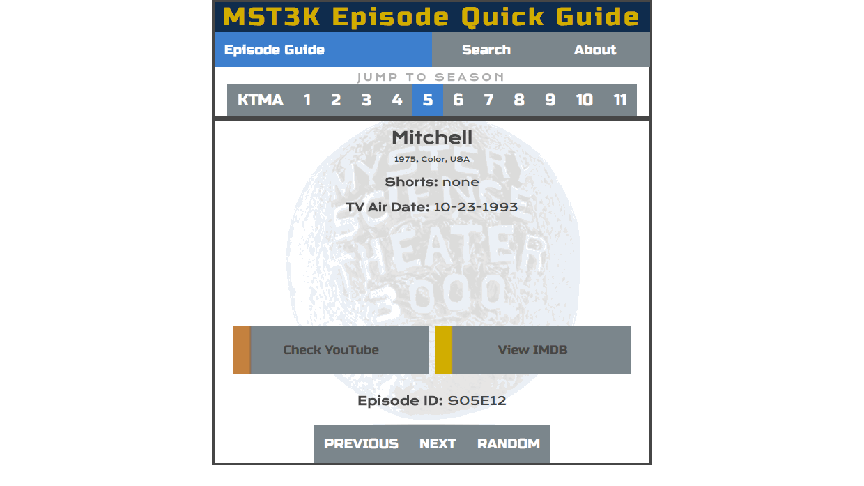
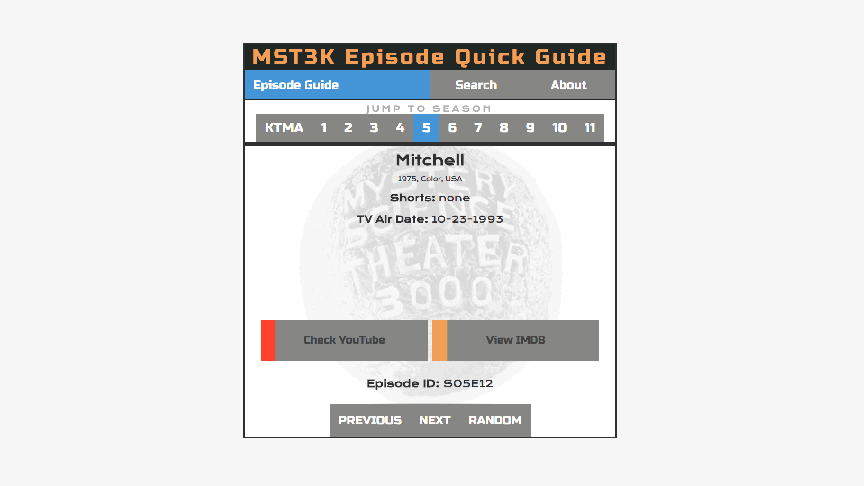
add new projects, add devicons, minor styling fixes

Changed region(s): [[0.2188, 0.0, 0.7812, 0.9568], [0.625, 0.4012, 0.6562, 0.4321]]

diff --git a/index.html b/index.html
@@ -14,12 +14,13 @@
   <meta property="og:title" content="Ed Plato | Web Developer Portfolio"/>
 
   <meta property="og:image" content="assets/portfolioThumbnail.png"/>
-  <meta property="og:description" content="HTML5, CSS3, Javascript, React, jQuery, Node.js, and more."/>
+  <meta property="og:description" content="Javascript, React, HTML5, CSS3, Node.JS, MongoDB, and more."/>
   <meta property="og:url" content="https://edplato.github.io/"/>
 
-  <link rel="shortcut icon" href="/favicon.ico">
+  <link rel="shortcut icon" href="./favicon.ico">
   <link href="vendor/font-awesome/css/font-awesome.min.css" rel="stylesheet">
   <link href="https://fonts.googleapis.com/css?family=Lato:400,700|Montserrat:200,300,400" rel="stylesheet">
+  <link rel="stylesheet" href="https://cdn.rawgit.com/konpa/devicon/df6431e323547add1b4cf45992913f15286456d3/devicon.min.css">
   <link href="css/bootstrap.min.css" rel="stylesheet">
   <link href="css/animate.css" rel="stylesheet">
   <link href="css/new-age.min.css" rel="stylesheet">
@@ -65,7 +66,7 @@
           <h2>let's build something <span id="line">|</span></h2>
           <div class="social-media-icons">
             <a href="https://github.com/edplato" rel="noopener noreferrer" target="_blank"><i aria-hidden="true" class="fa fa-github fa-3x animated pulse"></i></a>
-            <a href="https://twitter.com/eaplato" rel="noopener noreferrer" target="_blank"><i aria-hidden="true" class="fa fa-twitter fa-3x animated pulse"></i></a>
+            <a href="https://www.linkedin.com/in/edplato" rel="noopener noreferrer" target="_blank"><i aria-hidden="true" class="fa fa-linkedin-square fa-3x animated pulse"></i></a>
             <a href="mailto:edplatomail@gmail.com"><i aria-hidden="true" class="fa fa-envelope fa-3x animated pulse"></i></a>
           </div>
           <div class="scroll-arrow-down">
@@ -79,10 +80,24 @@
     <div class="col-md-2"></div>
     <div class="col-md-8">
       <h2 class="titles">About Me</h2>
-      <p>I'm Ed Plato, a Full Stack Developer who loves to create intuitive web applications and learn new technologies. I build with the help of my favorite language, Javascript.<br>
+      <p>As a software engineer specializing in full stack Javascript, I thrive on working with problems resolved through analytical thinking and creative solutions. I love to develop intuitive web applications and learn new technologies.
       <br>
       <br>
-      My primary technologies of interest are <strong>Javascript</strong>, <strong>HTML/CSS</strong>, and <strong>React</strong>. I also rely on regularly building with jQuery, Node, Bootstrap, Express.js, MongoDB, and Photoshop.<br>
+      <p>Here are a few of my technologies of interest, so far:</p>
+      <i class="devicon devicon-javascript-plain"></i>
+      <i class="devicon devicon-react-original-wordmark"></i>
+      <i class="devicon devicon-nodejs-plain-wordmark"></i>
+      <i class="devicon devicon-express-original-wordmark"></i>
+      <i class="devicon devicon-mongodb-plain-wordmark"></i>
+      <i class="devicon devicon-webpack-plain-wordmark"></i>
+      <i class="devicon devicon-angularjs-plain-wordmark"></i>
+      <i class="devicon devicon-html5-plain-wordmark"></i>
+      <i class="devicon devicon-css3-plain-wordmark"></i>
+      <i class="devicon devicon-bootstrap-plain-wordmark"></i>
+      <i class="devicon devicon-mocha-plain"></i>
+      <i class="devicon devicon-github-plain"></i>
+      <i class="devicon devicon-heroku-original-wordmark"></i>
+      <br>
       <br>
       <br>
       Think we should work together?
@@ -97,13 +112,37 @@
 <div class="divider" id="projects"></div>
   <div class="row project">
     <div class="col-md-6">
+      <a href="https://github.com/CrewBuilder/crew-builder" rel="noopener noreferrer" target="_blank"><img alt="Flick Pick" class="img-responsive" src="assets/crewBuilderThumbnail.png"></a>
+    </div>
+    <div class="col-md-6">
+      <h3>Crew Builder</h3>
+      <h5>Web Application</h5>
+      <h5>NodeJs / Express / PostgreSQL / React / Mocha / Chai</h5>
+      <p>Crew Builder is a social platform for building support through motivating engagement created as a collaborative effort. My main contributions were initializing our NodeJs/Express back-end, developing custom features for the responsive React front-end using React-Bootstrap, integrating continuous GitHub deployment to Heroku, and structuring our Mocha server tests. I also developed space-saving Webpack builds for our development and production needs.</p><a class="btn btn-primary" href="https://github.com/CrewBuilder/crew-builder" rel="noopener noreferrer" target="_blank">View Repo</a>
+    </div>
+  </div>
+  <div class="divider"></div>
+  <div class="row project">
+    <div class="col-md-6">
+      <a href="https://github.com/TopHatHR/sit-n-paws" rel="noopener noreferrer" target="_blank"><img alt="Flick Pick" class="img-responsive" src="assets/sitnpawsThumbnail.png"></a>
+    </div>
+    <div class="col-md-6">
+      <h3>sit-n-paws</h3>
+      <h5>Web Application</h5>
+      <h5>NodeJs / MongoDB / Express / React / Material-UI</h5>
+      <p>This MERN application was developed to match pet owners with hosts to watch their pets. The front-end was built with custom Material-UI components and user authentication was handled through API served JSON Web Token protected routes using React-Router. I created unit testing using Mocha/Chai and developed a MongoDB data seed tool.</p><a class="btn btn-primary" href="https://github.com/TopHatHR/sit-n-paws" rel="noopener noreferrer" target="_blank">View Repo</a>
+    </div>
+  </div>
+  <div class="divider"></div>
+  <div class="row project">
+    <div class="col-md-6">
       <a href="https://flickpick.herokuapp.com/" rel="noopener noreferrer" target="_blank"><img alt="Flick Pick" class="img-responsive" src="assets/flickpickThumbnail.png"></a>
     </div>
     <div class="col-md-6">
       <h3>Flick Pick - Movie Search</h3>
-      <h5>RESTful Web Application</h5>
+      <h5>Web Application</h5>
       <h5>NodeJs / MongoDB / Express / JavaScript / Bootstrap</h5>
-      <p>This MVC application was created to help narrow down movie choices by allowing the user to search movies, retrieve detailed information, provide IMDB links, and save movies to watch for later. It uses routed API's to search movie data, parse JSON results to a temporary movie pool(anonymously or logged in), and store client associated data. This RESTful application was built on MongoDB mLab for data storage, Express(with EJS), and Node.js.</p><a class="btn btn-primary" href="https://flickpick.herokuapp.com/" rel="noopener noreferrer" target="_blank">View Live</a> <a class="btn btn-primary" href="https://github.com/edplato/filmcompare" rel="noopener noreferrer" target="_blank">View Repo</a>
+      <p>This application was created to help narrow down movie choices by searching for movies, retrieving detailed information, providing IMDB links, and saving movies to watch for later. It uses routed API's to fetch data, add to a temporary movie pool(anonymously or logged in), and store client associated data. This RESTful application was built using MongoDB mLab for data storage, Express(with EJS), and NodeJs.</p><a class="btn btn-primary" href="https://flickpick.herokuapp.com/" rel="noopener noreferrer" target="_blank">View Live</a> <a class="btn btn-primary" href="https://github.com/edplato/filmcompare" rel="noopener noreferrer" target="_blank">View Repo</a>
     </div>
   </div>
   <div class="divider"></div>
@@ -115,7 +154,7 @@
       <h3>MST3K Episode Quick Guide</h3>
       <h5>Web Application</h5>
       <h5>React / React Router / JSX / CSS</h5>
-      <p>This React application is a mobile-first design episode guide for the show Mystery Science Theater 3000. The user can toggle through seasons, episodes, and link to IMDB and YouTube. A search view allows the user to find episode information by title query. JSON requests handled with Axios client.</p><a class="btn btn-primary" href="https://mst3kquickguide.herokuapp.com/" rel="noopener noreferrer" target="_blank">View Live</a> <a class="btn btn-primary" href="https://github.com/edplato/mst3kquickguide" rel="noopener noreferrer" target="_blank">View Repo</a>
+      <p>This React application is a mobile-first design episode guide for the show Mystery Science Theater 3000. It allows you to toggle through seasons, episodes, and link to IMDB and YouTube. A search feature provides  episodes by title query. Client-side requests are handled with Axios client.</p><a class="btn btn-primary" href="https://mst3kquickguide.herokuapp.com/" rel="noopener noreferrer" target="_blank">View Live</a> <a class="btn btn-primary" href="https://github.com/edplato/mst3kquickguide" rel="noopener noreferrer" target="_blank">View Repo</a>
     </div>
   </div>
   <div class="divider"></div>
@@ -139,7 +178,7 @@
       <h3>Number Match</h3>
       <h5>Web Application</h5>
       <h5>JavaScript / jQuery / Bootstrap / HTML / CSS</h5>
-      <p>Number Match was created as a learning tool for my niece. I wanted to make a responsive and colorful app that she could play on various devices. An interesting aspect of creating this application was the need for a shuffle algorithm to cycle through remaining indexes in an array. Designed for Chrome browsers. Currently working on increased cross-browser support.</p><a class="btn btn-primary" href="https://edplato.github.io/numberMatch/numbermatch.html" rel="noopener noreferrer" target="_blank">View Live</a> <a class="btn btn-primary" href="https://github.com/edplato/numbermatch" rel="noopener noreferrer" target="_blank">View Repo</a>
+      <p>Number Match was created as a learning tool for my niece. I wanted to make a responsive and colorful app that she could play on various devices. Designed and tested for Chrome.</p><a class="btn btn-primary" href="https://edplato.github.io/numberMatch/numbermatch.html" rel="noopener noreferrer" target="_blank">View Live</a> <a class="btn btn-primary" href="https://github.com/edplato/numbermatch" rel="noopener noreferrer" target="_blank">View Repo</a>
     </div>
   </div>
   <div class="divider"></div>

diff --git a/css/styles.css b/css/styles.css
@@ -27,26 +27,32 @@ Theme elements from Bootstrap New Age CSS have been used to style this page
 body {
   font-family: 'Montserrat', sans-serif;
 }
+
 h3 {
   font-family: 'Montserrat', sans-serif;
   font-weight: 400;
 }
+
 h5 {
   font-family: 'Lato', sans-serif;
   font-weight: 700;
 }
+
 p {
   font-family: 'Lato', sans-serif;
   font-weight: 400;
   line-height: 30px;
   font-size: 18px;
 }
+
 i {
   color: white;
 }
+
 header {
   background: none;
 }
+
 header {
   background: url("../assets/iconOverlayBg.png");
   background-size: cover;
@@ -54,25 +60,39 @@ header {
   background-position: center;
   background-color: #465C8B;
 }
+
+.devicon {
+  color: #222;
+  font-size: 6em;
+  margin-right: .5em;
+  text-shadow: .5px .5px #465C8B;
+}
+
 .row {
   margin: 56px 24px;
 }
+
 .titles {
   text-align: center;
   margin: 16px 0;
 }
+
 .divider {
   width: 94%;
   height: 1px;
   background-color: rgba(0, 0, 0, 0.1);
   margin: 124px auto;
 }
+
 .img-responsive {
   -webkit-box-shadow: -13px 13px 9px -11px rgba(0, 0, 0, 0.59);
   -moz-box-shadow: -13px 13px 9px -11px rgba(0, 0, 0, 0.59);
   box-shadow: -13px 13px 9px -11px rgba(0, 0, 0, 0.59);
 }
-.btn-primary, .btn-primary:active, .btn-primary:focus {
+
+.btn-primary,
+.btn-primary:active,
+.btn-primary:focus {
   color: #0645cb;
   border: 2px solid #0645cb;
   background-color: white;
@@ -80,20 +100,24 @@ header {
   padding: 8px 16px;
   border-radius: 4px;
 }
+
 .btn-primary:hover {
   background-color: #0645cb;
   color: white;
   border: 2px solid #0645cb;
 }
+
 .intro {
   margin-top: 15%;
 }
+
 .intro h1 {
   margin-bottom: 16px;
   font-family: 'Montserrat', sans-serif;
   font-weight: 200;
   opacity: 0.8;
 }
+
 .intro h2 {
   text-align: center;
   margin-bottom: 36px;
@@ -105,24 +129,29 @@ header {
   font-weight: 200;
   animation: type 6s steps(60, end);
 }
+
 #line {
   animation: blink 1s infinite;
 }
+
 @keyframes type {
   from {
     width: 0px;
   }
 }
+
 @keyframes blink {
   to {
     opacity: .0;
   }
 }
-.about-down{
+
+.about-down {
   color: black;
   margin-left: 12px;
 }
-.scroll-arrow-down{
+
+.scroll-arrow-down {
   margin-top: 4em;
   margin-left: 0;
   margin-right: 0;
@@ -134,6 +163,7 @@ header {
   opacity: 0.8;
   left: calc(50% - 0.65em);
 }
+
 @keyframes ArrowUpDown {
   0% {
     bottom: -100px;
@@ -145,29 +175,36 @@ header {
     bottom: -100px;
   }
 }
+
 .intro i {
   margin: 0 16px 24px;
 }
+
 .intro i:hover {
   color: #0645cb;
   opacity: 0.8;
 }
+
 .project p {
   color: rgba(0, 0, 0, 0.5);
   margin-top: 16px;
 }
+
 .fa-bars {
   color: black;
 }
+
 .navbar-default .nav>li>a {
   font-size: 14px;
   text-shadow: .1px .4px rgba(0, 0, 0, 0.6);
 }
+
 #name-logo {
   white-space: nowrap;
   font-weight: 800;
   letter-spacing: 4px;
 }
+
 #about {
   text-align: center;
   background-image: url("../assets/shapes48TpBg.png");
@@ -176,12 +213,15 @@ header {
   padding-top: 5%;
   padding-bottom: 15%;
 }
+
 #projects {
   margin-top: 0;
 }
+
 #contact {
   color: blue;
 }
+
 @media (max-width: 995px) {
   #intro-bg {
     padding-left: 0px;
@@ -200,6 +240,7 @@ header {
     margin: 0 auto;
   }
 }
+
 @media (max-width: 767px) {
   body {
     text-align: center;
@@ -223,12 +264,17 @@ header {
     width: 90%;
     margin: 0 auto;
   }
+  .devicon {
+    margin-right: 0;
+  }
 }
+
 @media (min-width: 767px) {
   .project {
     padding: 0 20px;
   }
 }
+
 @media (max-width: 250px) {
   .navbar-toggle {
     display: none;
@@ -245,9 +291,13 @@ header {
     padding-right: 0;
   }
 }
+
 footer {
   padding: 10px 0;
 }
-footer a:hover, footer a:active, footer a:focus {
+
+footer a:hover,
+footer a:active,
+footer a:focus {
   color: #0645cb;
 }

diff --git a/js/app.js b/js/app.js
@@ -1,4 +1,5 @@
 $(document).ready(function() {
+  console.log("%cThanks for visiting - DevTools much? Me too. -Ed", "color: #465C8B; font-size:22px;");
   navToggle();
 });
 

diff --git a/README.md b/README.md
@@ -1,0 +1,11 @@
+# Ed Plato - *web dev portfolio*
+
+This repo is for my web development portfolio hosted on GitHub Pages. [See it live](https://edplato.github.io/)
+
+### MIT License
+
+Permission is hereby granted, free of charge, to any person obtaining a copy of this software and associated documentation files (the “Software”), to deal in the Software without restriction, including without limitation the rights to use, copy, modify, merge, publish, distribute, sublicense, and/or sell copies of the Software, and to permit persons to whom the Software is furnished to do so, subject to the following conditions:
+
+The above copyright notice and this permission notice shall be included in all copies or substantial portions of the Software.
+
+THE SOFTWARE IS PROVIDED “AS IS”, WITHOUT WARRANTY OF ANY KIND, EXPRESS OR IMPLIED, INCLUDING BUT NOT LIMITED TO THE WARRANTIES OF MERCHANTABILITY, FITNESS FOR A PARTICULAR PURPOSE AND NONINFRINGEMENT. IN NO EVENT SHALL THE AUTHORS OR COPYRIGHT HOLDERS BE LIABLE FOR ANY CLAIM, DAMAGES OR OTHER LIABILITY, WHETHER IN AN ACTION OF CONTRACT, TORT OR OTHERWISE, ARISING FROM, OUT OF OR IN CONNECTION WITH THE SOFTWARE OR THE USE OR OTHER DEALINGS IN THE SOFTWARE.
